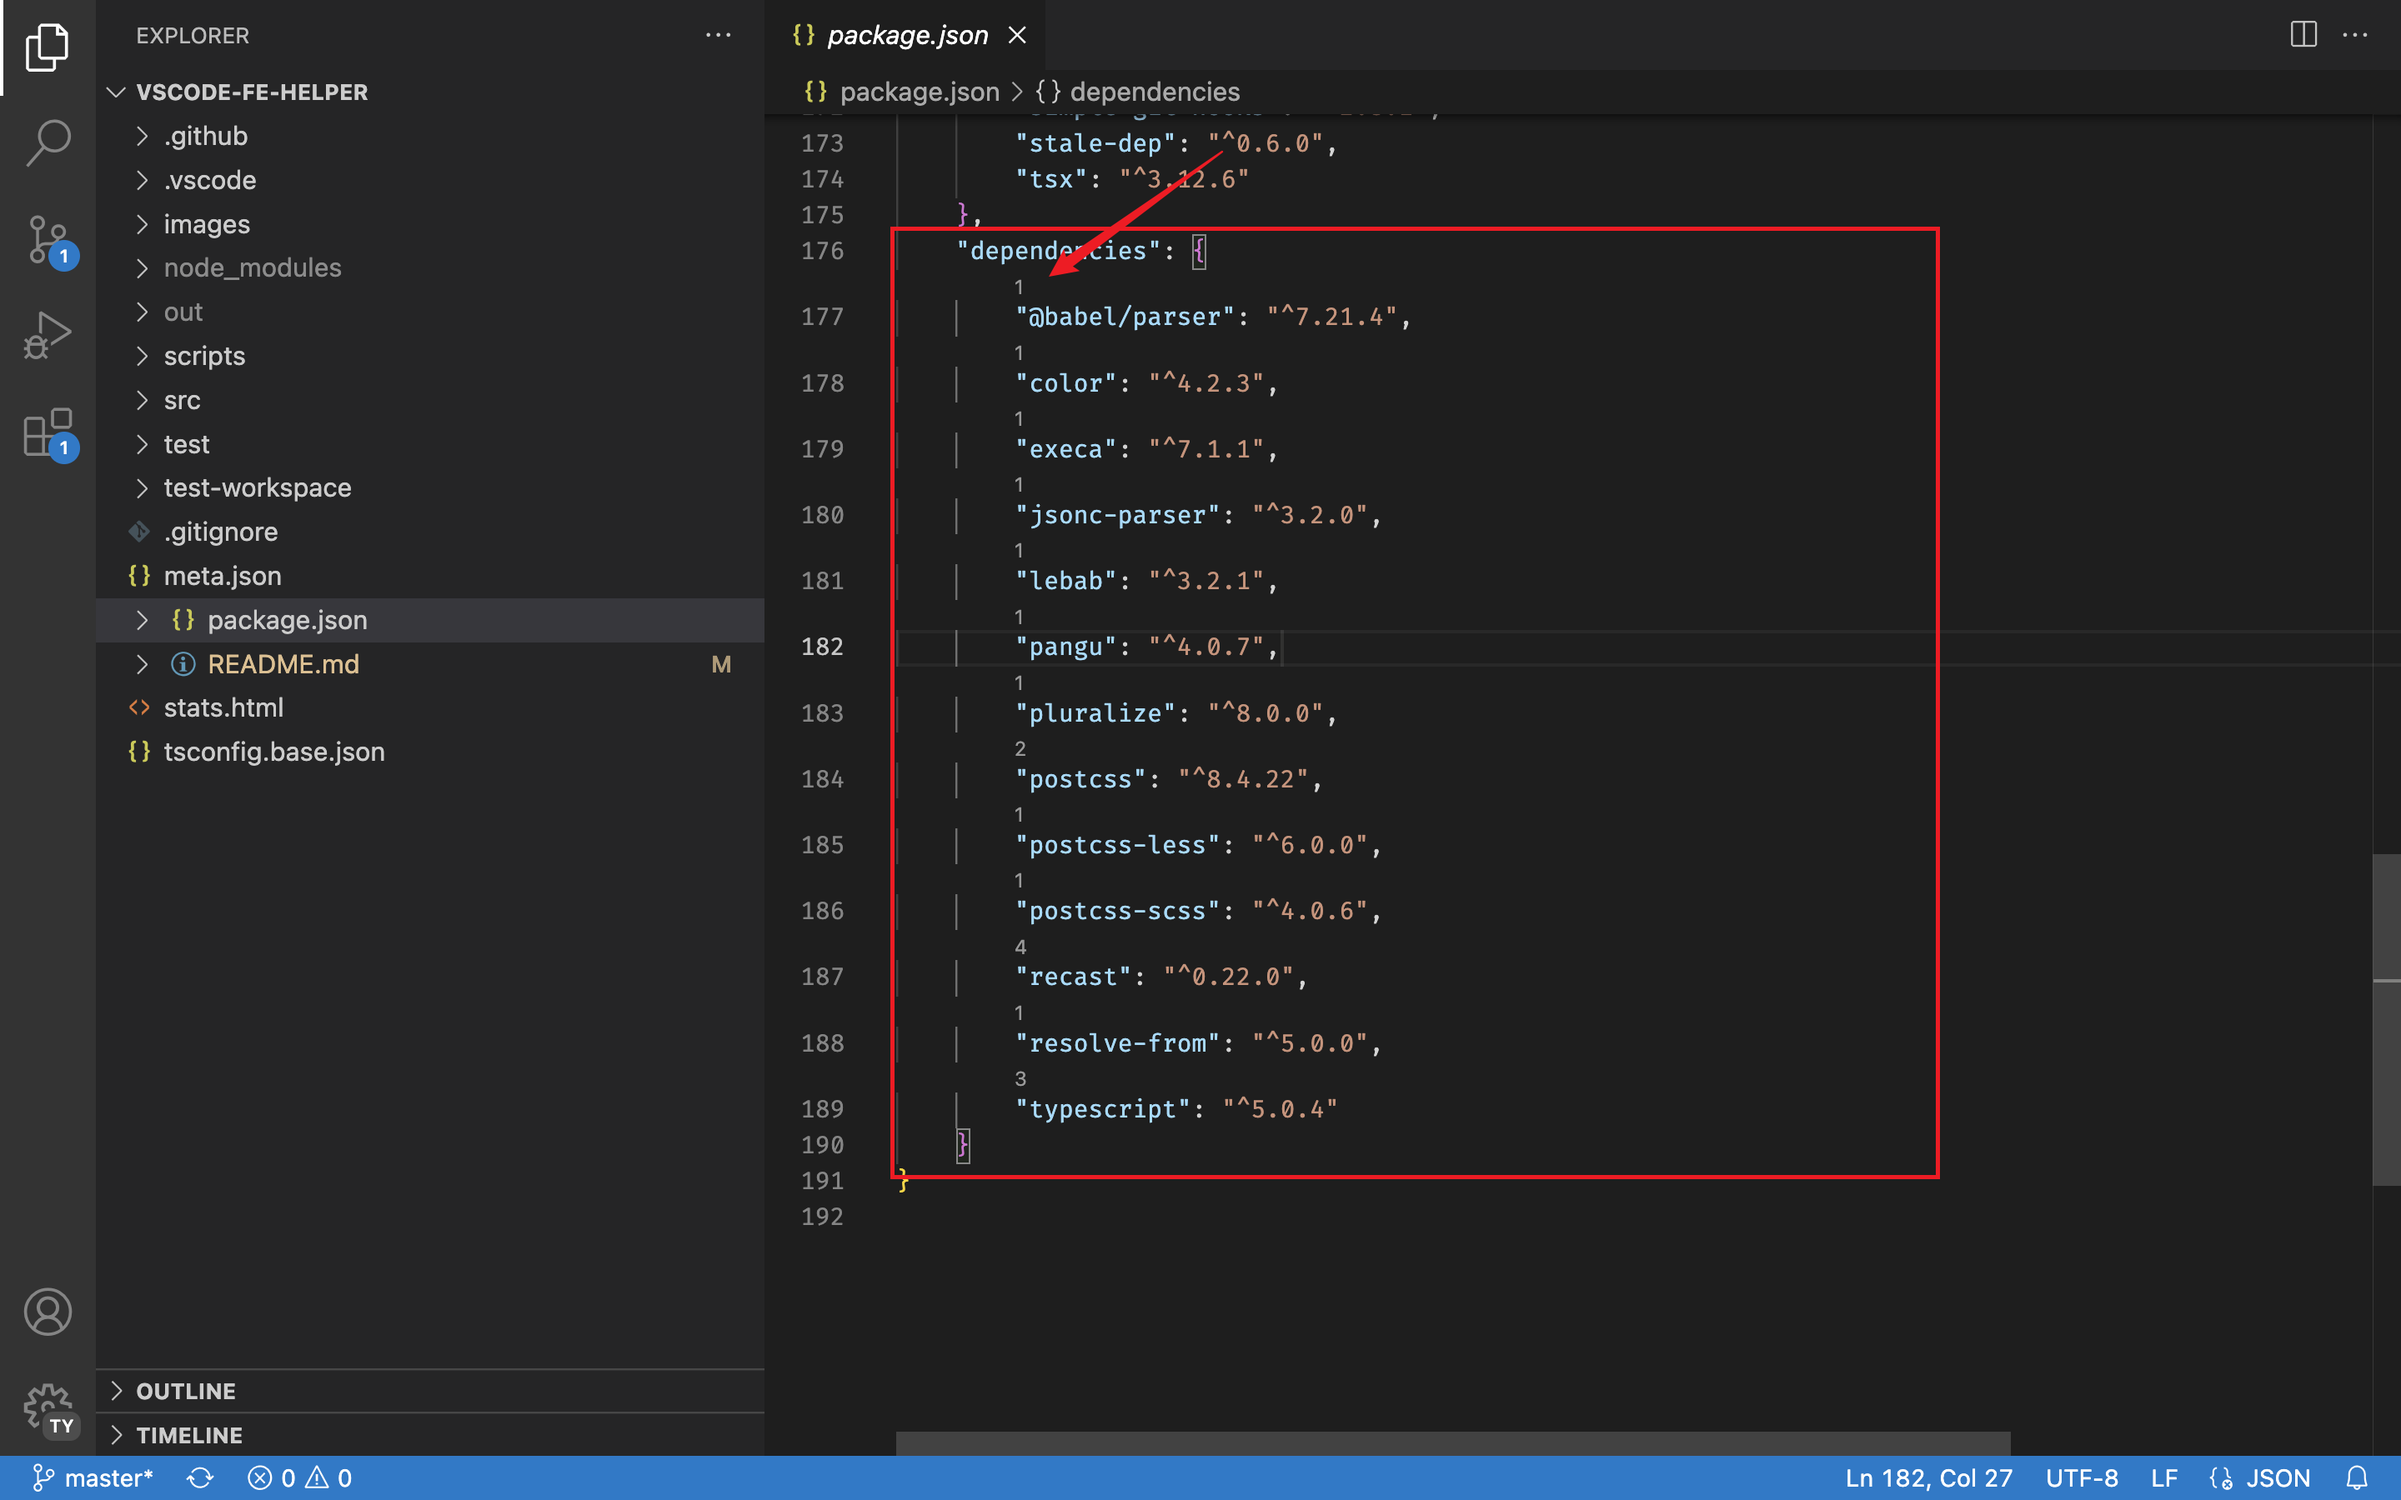
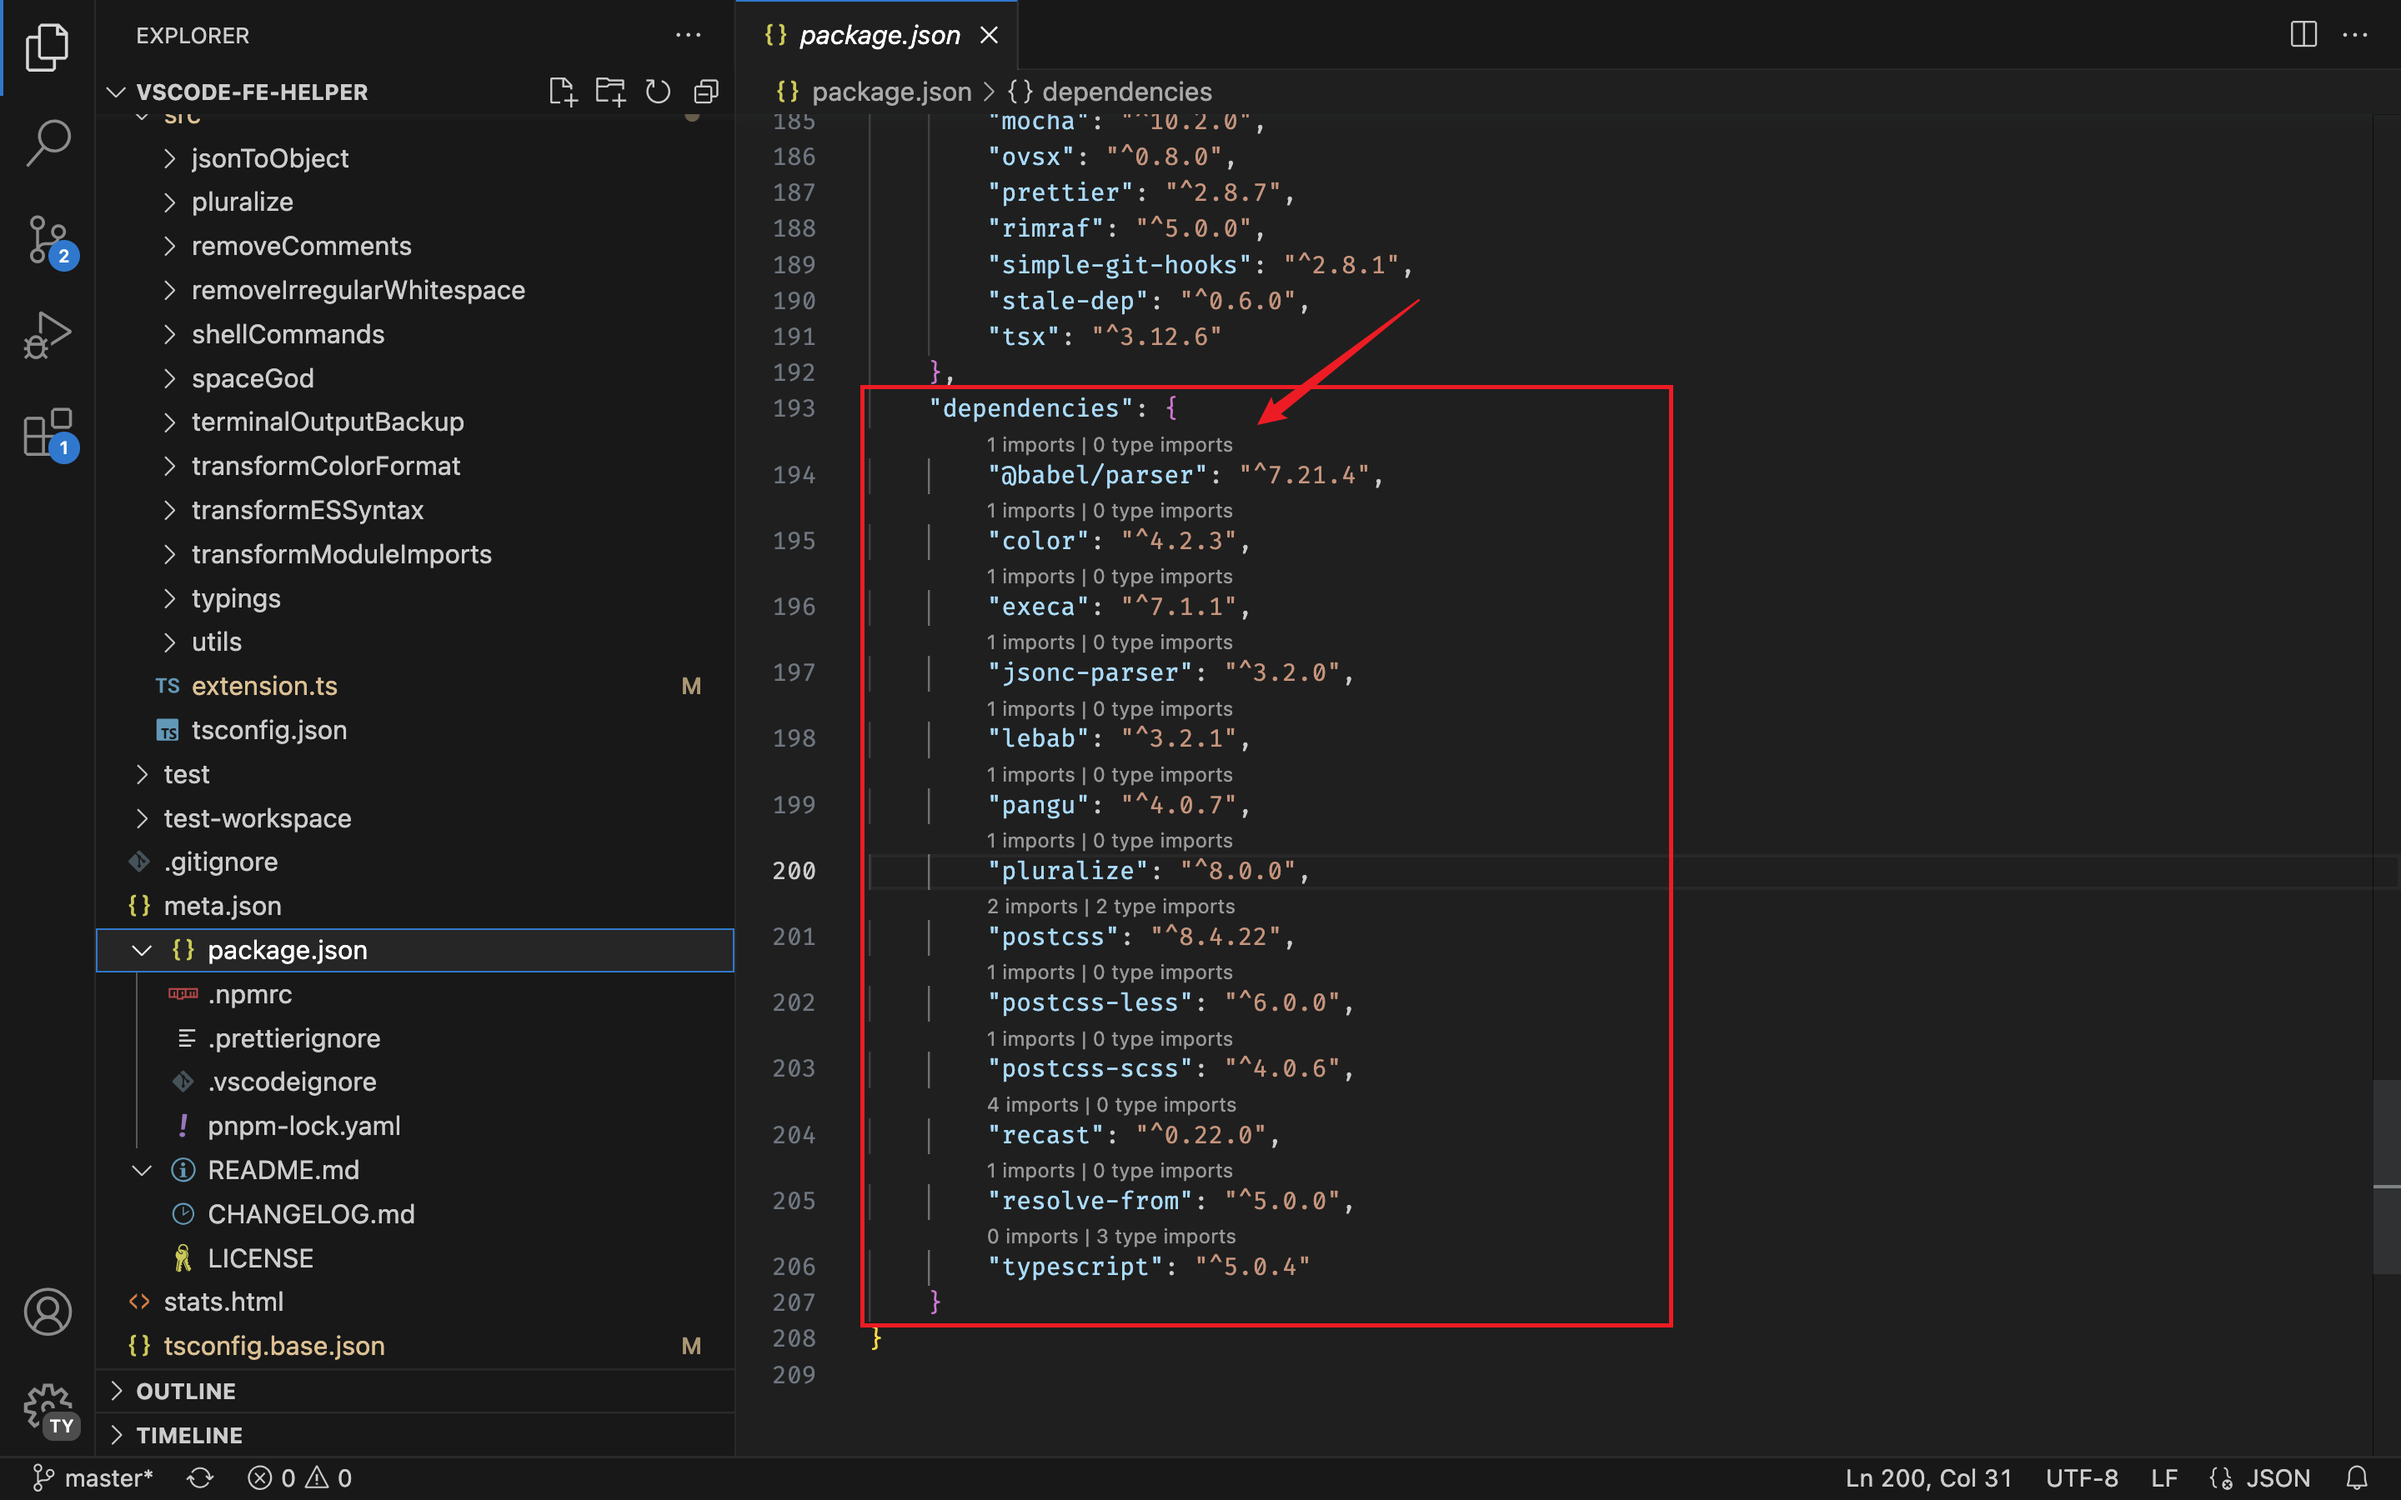
docs: update for v0.3.0

diff --git a/src/codeLens/packageJsonDependencies.ts b/src/codeLens/packageJsonDependencies.ts
@@ -139,8 +139,8 @@ export class PackageJsonDependenciesCodeLensProvider extends BaseCodeLensProvide
             command = 'package-manager-enhancer.deleteLine';
             args = [data.position.line];
         } else {
-            command = 'package-manager-enhancer.showReferencesInPanel';
             tooltip = `click to open the ${data.type} in references panel`;
+            command = 'package-manager-enhancer.showReferencesInPanel';
             args = [this._document!.uri, data.position, matches];
         }
 

diff --git a/src/codeLens/GlobCodeLensProvider.ts b/src/codeLens/GlobCodeLensProvider.ts
@@ -36,6 +36,7 @@ export abstract class GlobCodeLensProvider extends BaseCodeLensProvider {
                 title,
                 command: 'package-manager-enhancer.showReferencesInPanel',
                 arguments: [this._document!.uri, data.position, referencedFiles],
+                tooltip: 'click to open the files in references panel',
             },
         };
     }

diff --git a/README.md b/README.md
@@ -29,10 +29,10 @@
 ## TODO
 
 - [x] `package.json` files property codeLens
-  - [ ] support configure whether should include packaged files other than patterns
+  - [x] support configure whether should include packaged files other than patterns
 - [x] `package.json` deps codeLens
-  - [ ] support distinct import and import type
-  - [ ] fix @types codeLens
+  - [x] support distinct import and import type
+  - [x] fix @types codeLens
 - [x] configurations
 - [ ] `.npmrc` autocomplete
 - [ ] `pnpm-lock.yaml` dependency reference and go to definition

diff --git a/CHANGELOG.md b/CHANGELOG.md
@@ -1,5 +1,16 @@
 <!-- https://keepachangelog.com/en/1.0.0/ -->
 
+## 0.3.0 - 2023-04-20
+
+### Added
+
+- new configuration: `package-manager-enhancer.packageJsonFilesCodeLens.includeDefaultPackedFiles`
+- dependencies codelens support distinct imports and type imports
+
+### Fixed
+
+- configuration `package-manager-enhancer.packageJsonDependenciesCodeLens.searchDependenciesExcludePatterns` doesn't work
+
 ## 0.2.0 - 2023-04-18
 
 ### Added
